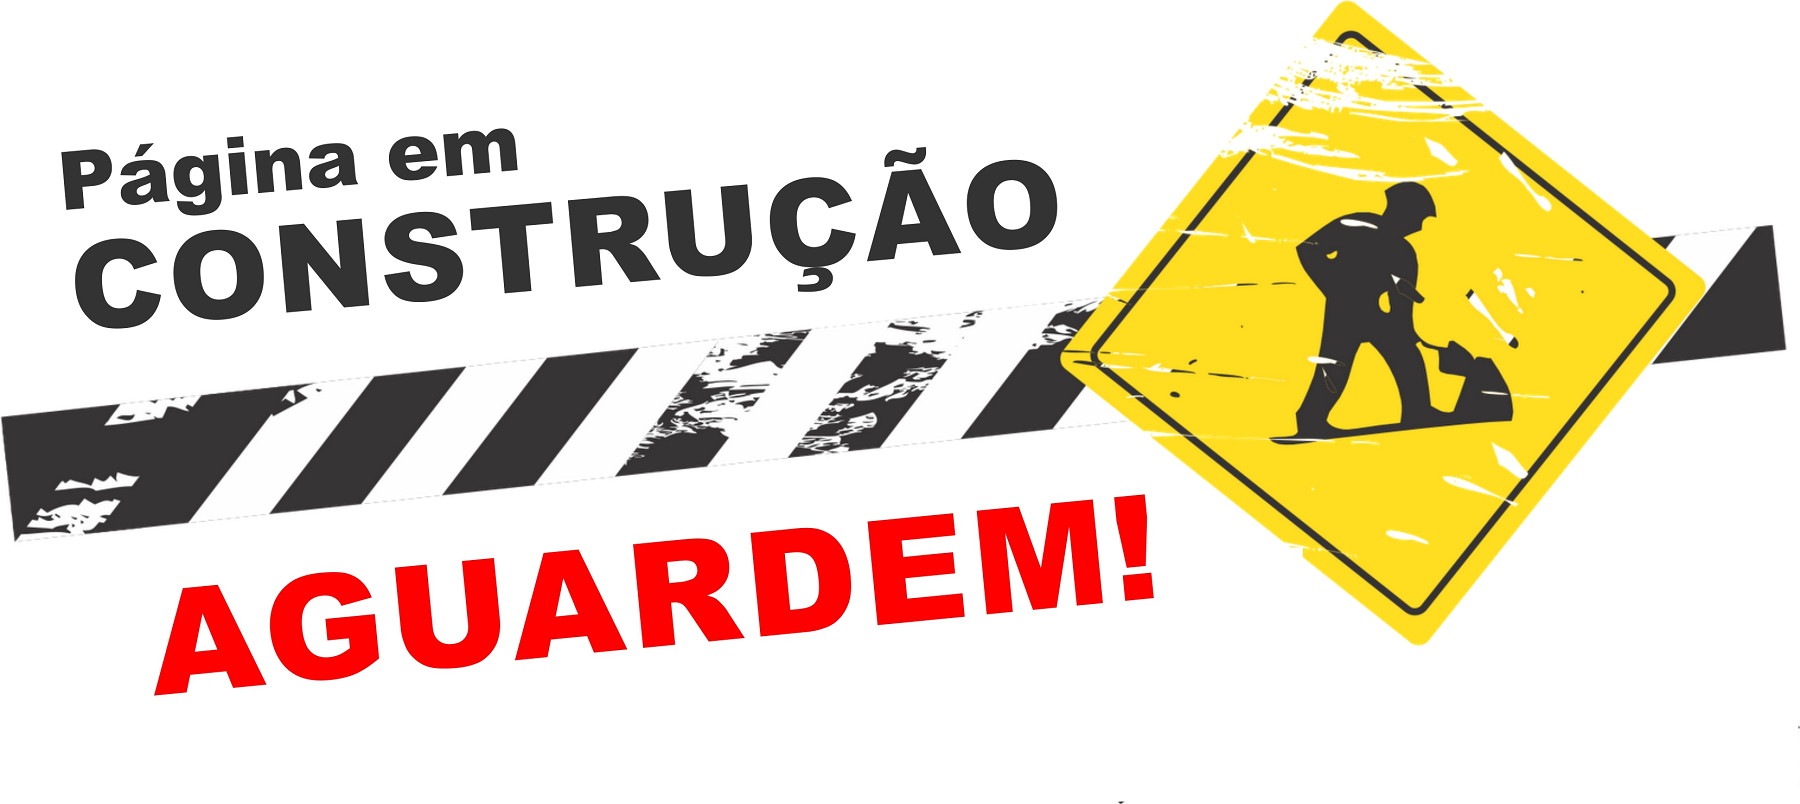
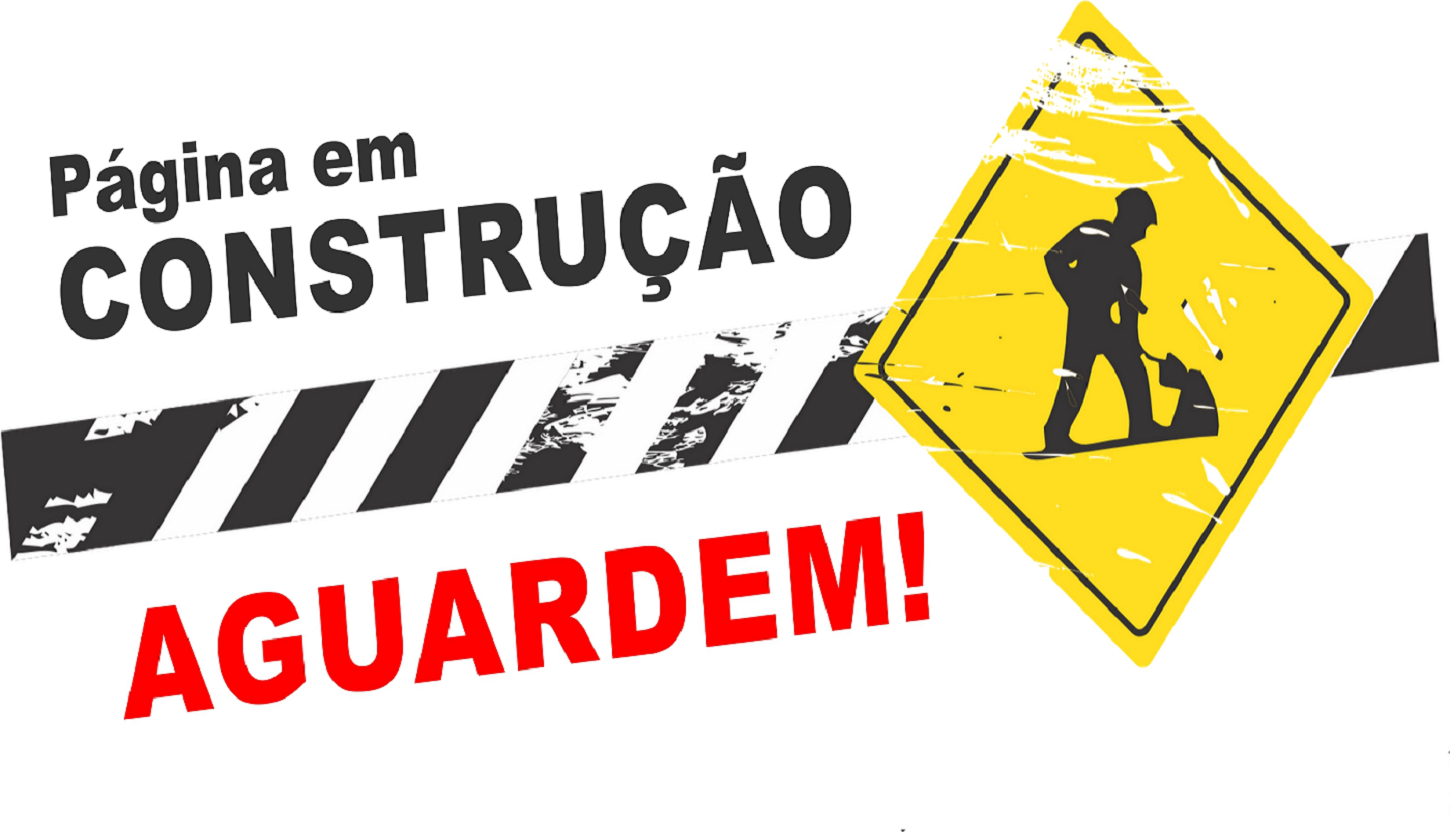
att

diff --git a/src/components/Carrinho/index.js b/src/components/Carrinho/index.js
@@ -3,16 +3,19 @@ import '../Header/header.css'
 import manutencao from "./imagens/manutencao.png"
 import Container from 'react-bootstrap/Container';
 import Row from 'react-bootstrap/Row';
-import Col from 'react-bootstrap/Col';
+
 
 export default function Header() {
     return (
-        <Container>
-          <Row md= {1}>
+      <div className='car'>
+         <Container>
+           <Row md= {1}>
            
-          <h2>Carrinho</h2>
-          <Col md = {11}><img src={manutencao} alt="Manutencao" /></Col>
+          <h2>Carrinho de Compras</h2>
+          <img src={manutencao} alt="Manutencao" />
           </Row>
             </Container>
+          </div>
           )
+
 }

diff --git a/src/components/Carrinho/carrinho.css b/src/components/Carrinho/carrinho.css
@@ -14,3 +14,14 @@
       width: 400px;
   }
    */
+
+   .car img{
+    width: auto;
+    height: auto;
+}
+
+.car h2{
+    color: black;
+    text-align: center;
+    font-size: 30px;
+}
